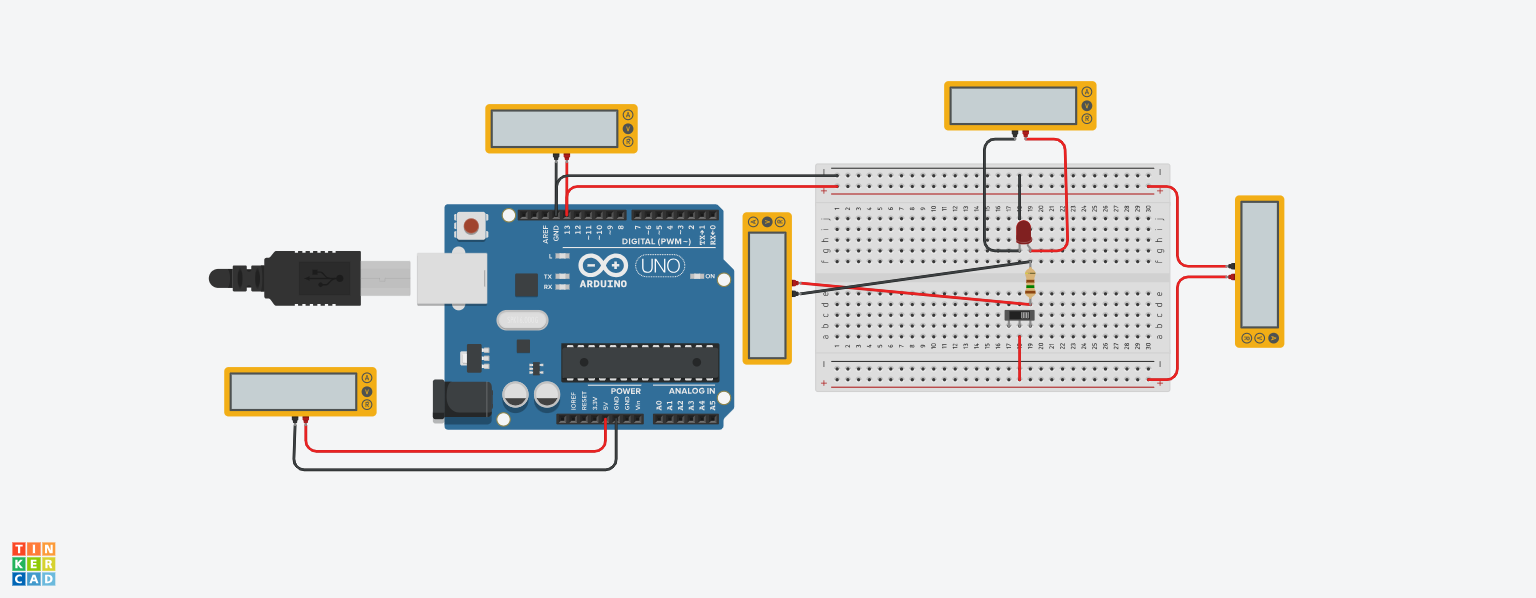
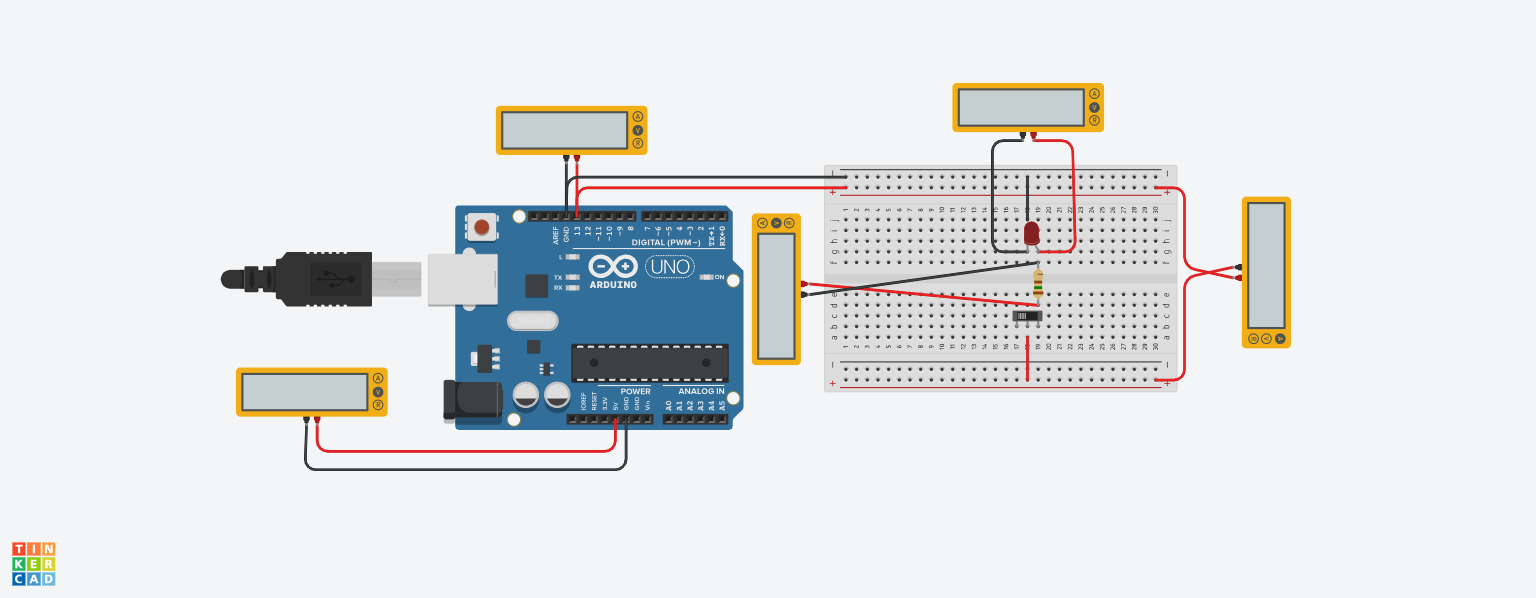
Update: projeto versão 02.

diff --git a/README.md b/README.md
@@ -11,10 +11,32 @@
 
 Este projeto consiste na montagem e programação de um circuito oscilador simples para piscar um LED (Light Emitting Diode). Desenvolvido como a primeira lição prática do curso de Eletrônica do Instituto Universal Brasileiro (IUB) para compreender os conceitos de temporização, resistores de limitação de corrente e portas digitais.
 
-*   **Link do Projeto:** [Tinkercad](https://www.tinkercad.com/things/ddJeV7VgXkR-basico-01-pisca-pisca-led)
+*   **Link do Projeto - Versão 01:** [Tinkercad](https://www.tinkercad.com/things/ddJeV7VgXkR-basico-01-pisca-pisca-ledv1)
 
 
-![Circuito](./02-tinkercad/basico-01-pisca-pisca-led_circuito.png)
+![Circuito](./02-tinkercad/v1/basico-01-pisca-pisca-led_circuito.png)
+
+*   **Link do Projeto - Versão 02:** [Tinkercad](https://www.tinkercad.com/things/e1mFdxatSdE-basico-01-pisca-pisca-ledv2)
+
+
+Montagem:
+
+![Circuito](./02-tinkercad/v2/basico-01-pisca-pisca-led_v2.png)
+
+Chave OFF:
+
+![Circuito](./02-tinkercad/v2/basico-01-pisca-pisca-led_v2-simulacao-OFF.png)
+
+Chave ON:
+
+![Circuito](./02-tinkercad/v2/basico-01-pisca-pisca-led_v2-simulacao-ON.png)
+
+**Observação:** No circuito em operação a fonte de tensão se comporta como uma fonte real, entragando uma tensão abaixo da nominal, ou seja, $Vt < 5 V$.
+
+A resistência interna da fonte (**Ri**) compõe a Resistênsia Equivalente (**Req**) com o Resistor em Série (**R**), com isso, a tensão de saída irá variar, dependendo do valor do resistor **R**, logo:
+
+$R \neq 150 \ \Omega \rightarrow Vt \neq 4,26\  V$.
+
 
 ---
 
@@ -102,7 +124,7 @@ https://share.google/q8cRXUE1vwOQglHyV
 https://share.google/RcbRnX1RifIai1M7W
 
 
-**Valores Típicos:**
+**Valores Típicos - Fonte de 6 V:**
 
 *Tensão no Resistor:*
 
@@ -117,9 +139,37 @@ $R =\frac{Vr}{I(máxima do led)}$
 
 $R =\frac{4,2\;V }{20\;mA} = 210\; Ohms$
 
-***Resistor Comercial: 220 Ohms***
+Então:
+
+***Fonte = 6 V***
+
+***Resistor Comercial = 220 Ohms***
 
 ![Circuito](./01-falstad/v1/circuit-20260806-2119.png)
+
+
+**Valores Típicos - Fonte de 5 V:**
+
+*Tensão no Resistor:*
+
+$Vr = Vt - V(led)$
+
+$Vr = 5\;V - 2\;V = 3\;V$
+
+
+*Valor da Resistência:*
+
+$R =\frac{Vr}{I(máxima do led)}$
+
+$R =\frac{3\;V }{20\;mA} = 150\; Ohms$
+
+Então:
+
+***Fonte = 5 V***
+
+***Resistor Comercial = 220 Ohms***
+
+![Circuito](./01-falstad/v2/circuit-20260807-0135.png)
 
 **Observação:**
 
